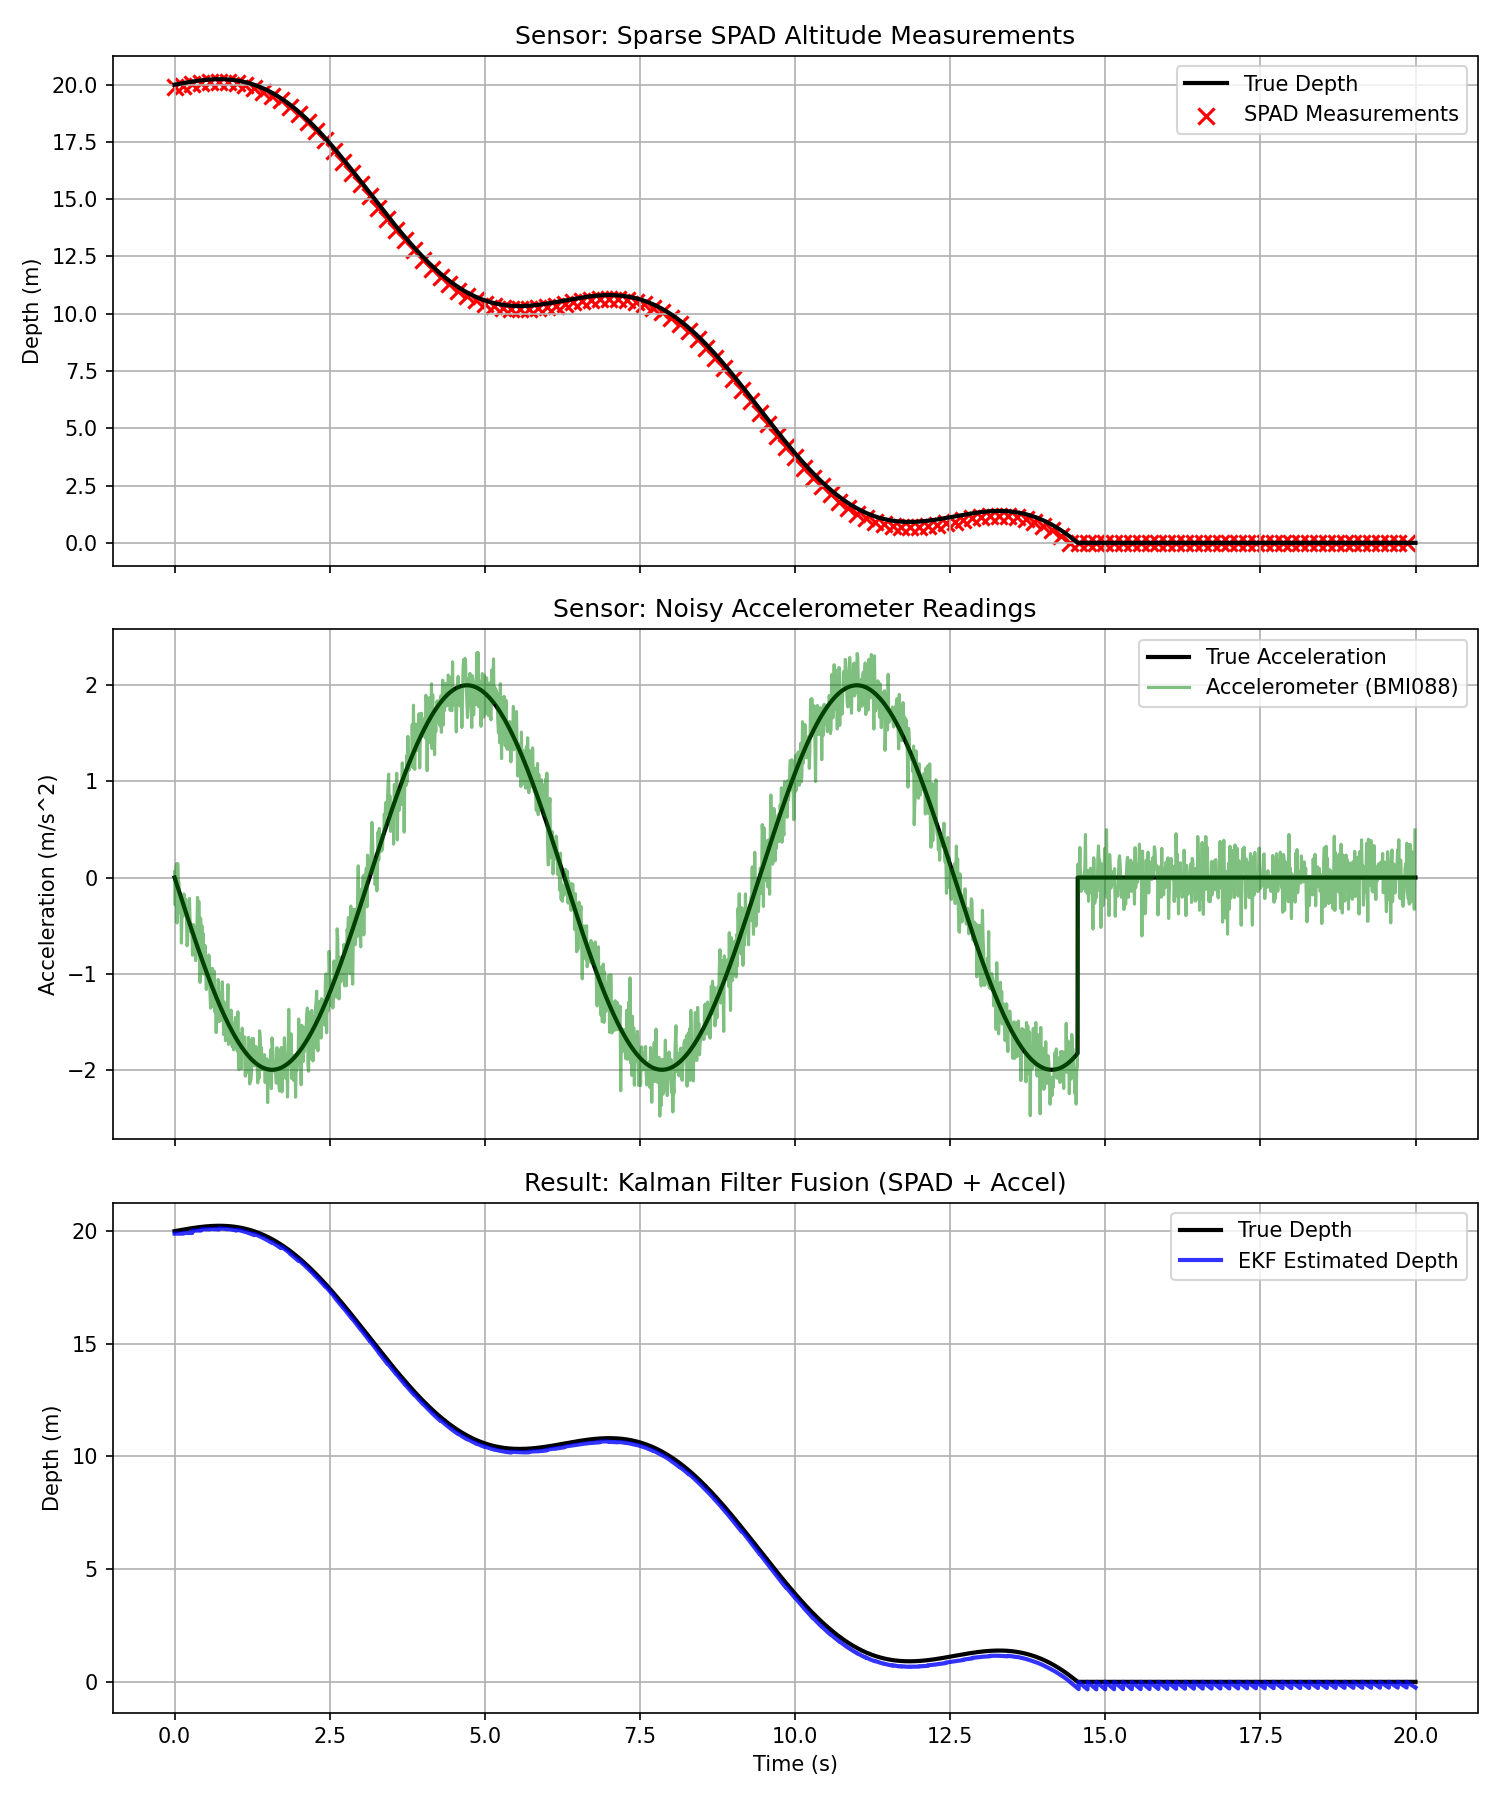
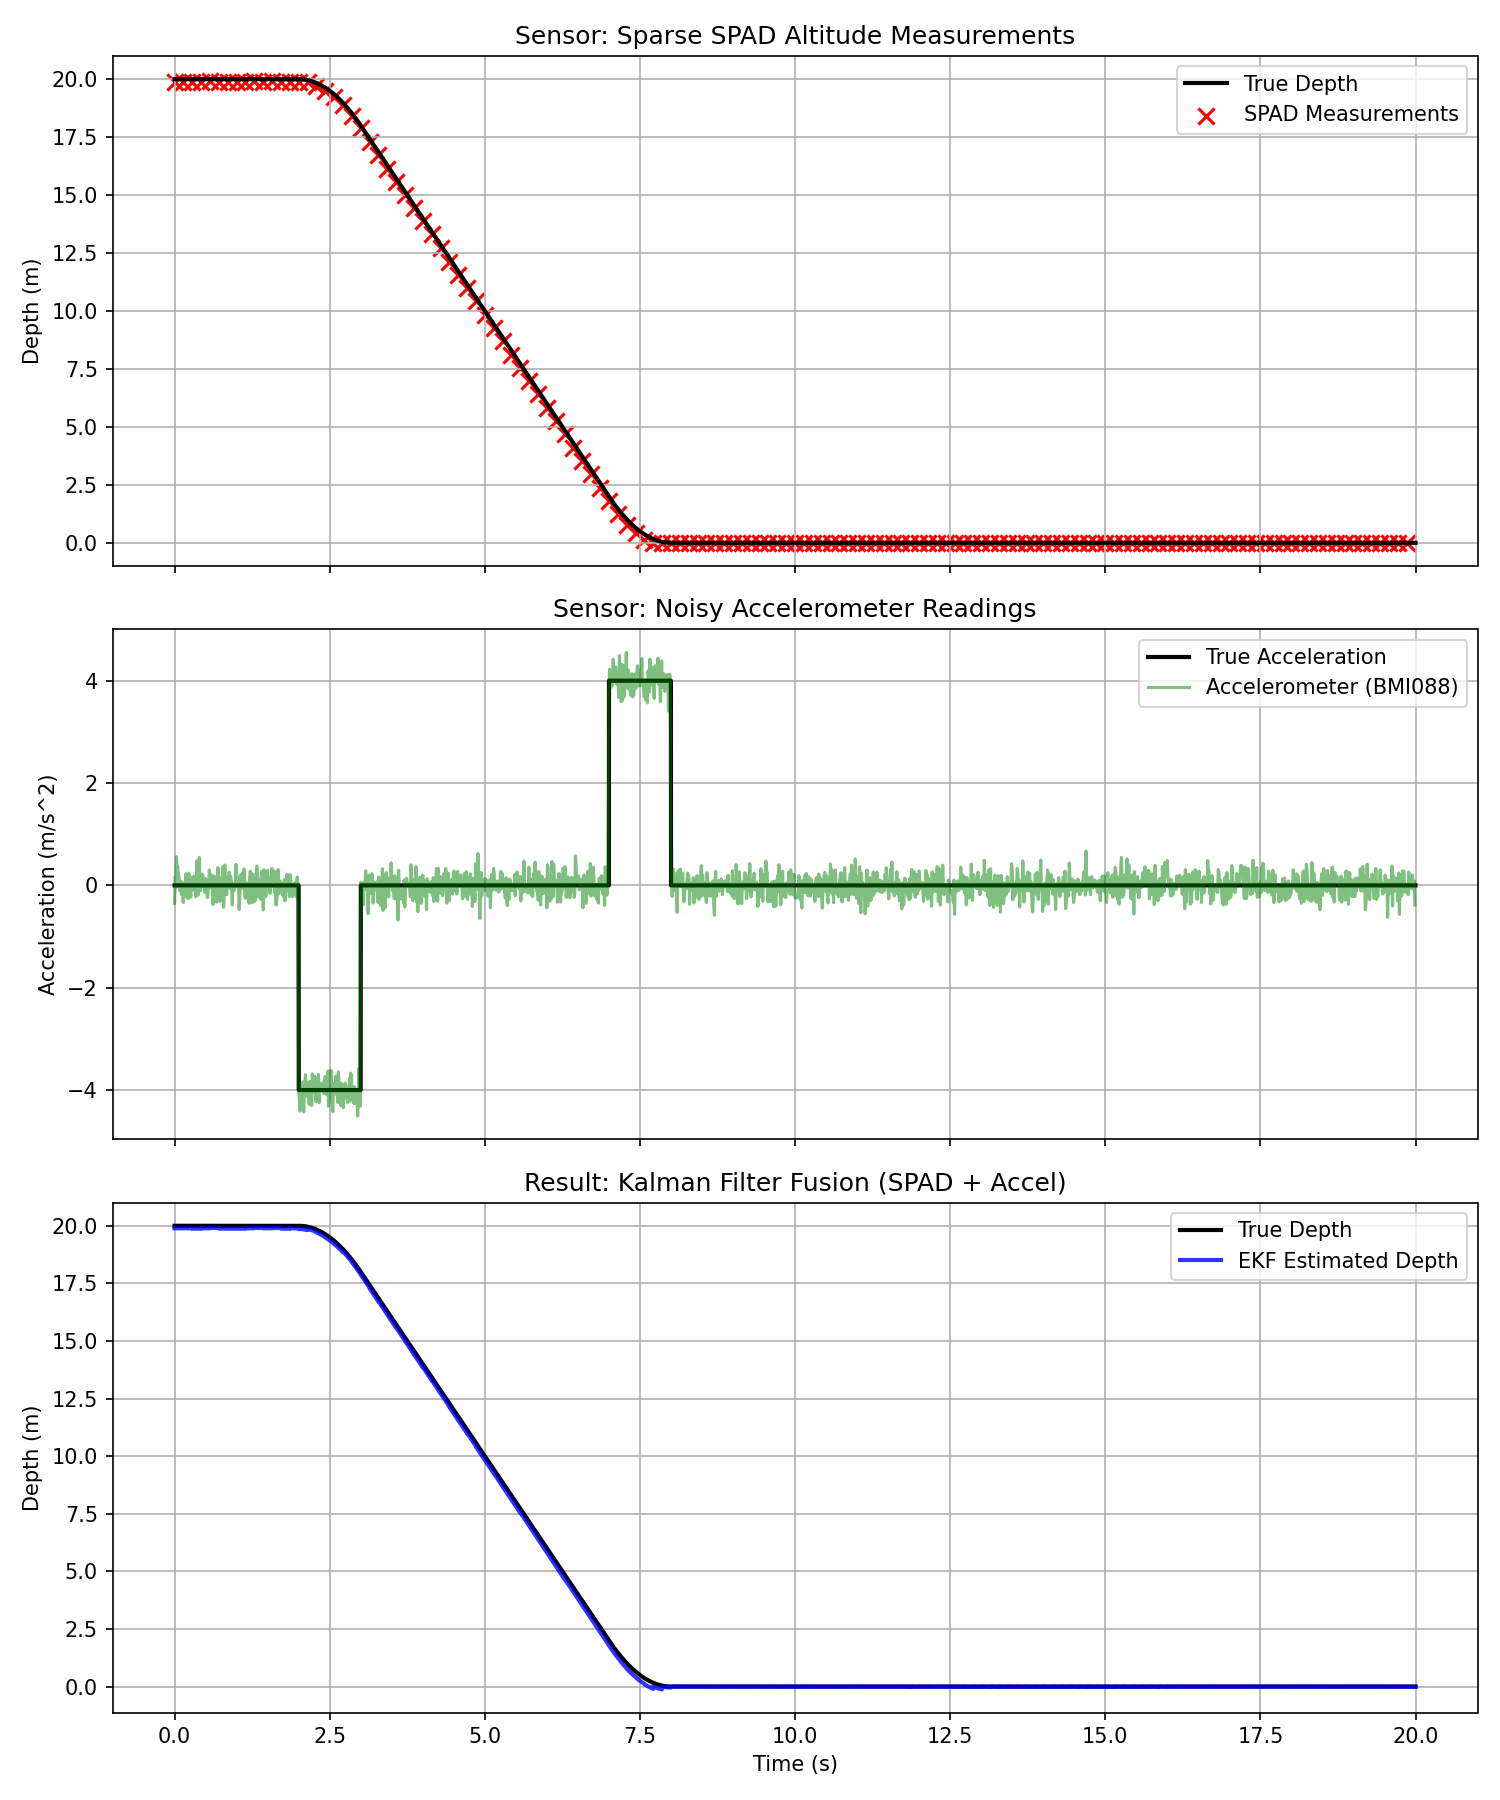
prova

diff --git a/main.py b/main.py
@@ -29,7 +29,7 @@ SPAD_DEFAULT_PARAMS = dict(
     PDP            = 0.30,
     DCR            = 1e3,
     N_pulses       = 600,
-    T_window       = 400e-9,
+    T_window       = 800e-9,
     dt_bin         = 100e-12,
     lambda_sig_0   = 10000,
     pulse_sigma_s  = 0.42e-9,
